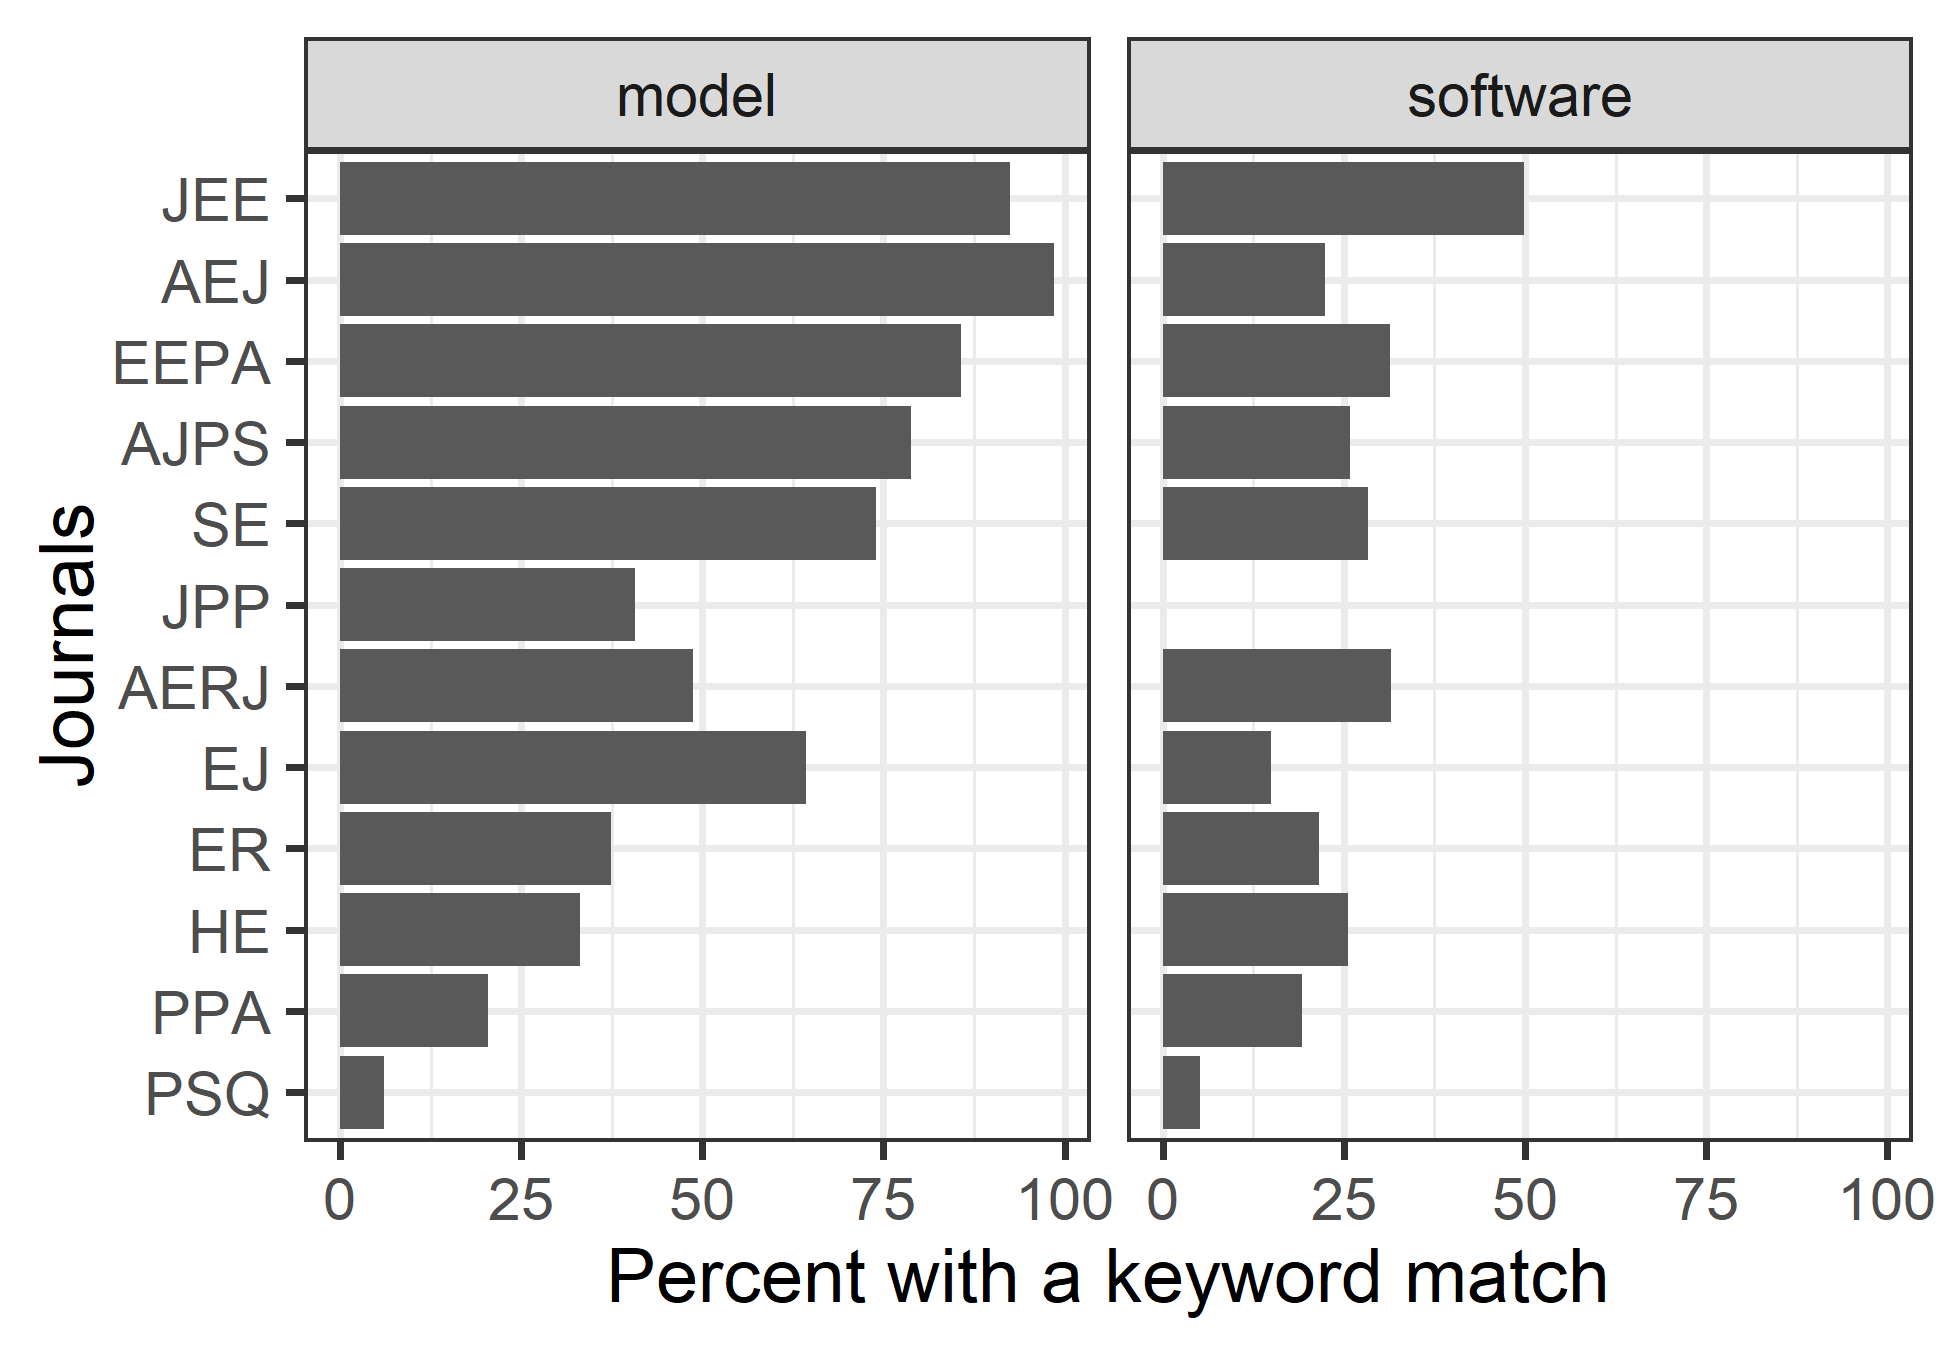
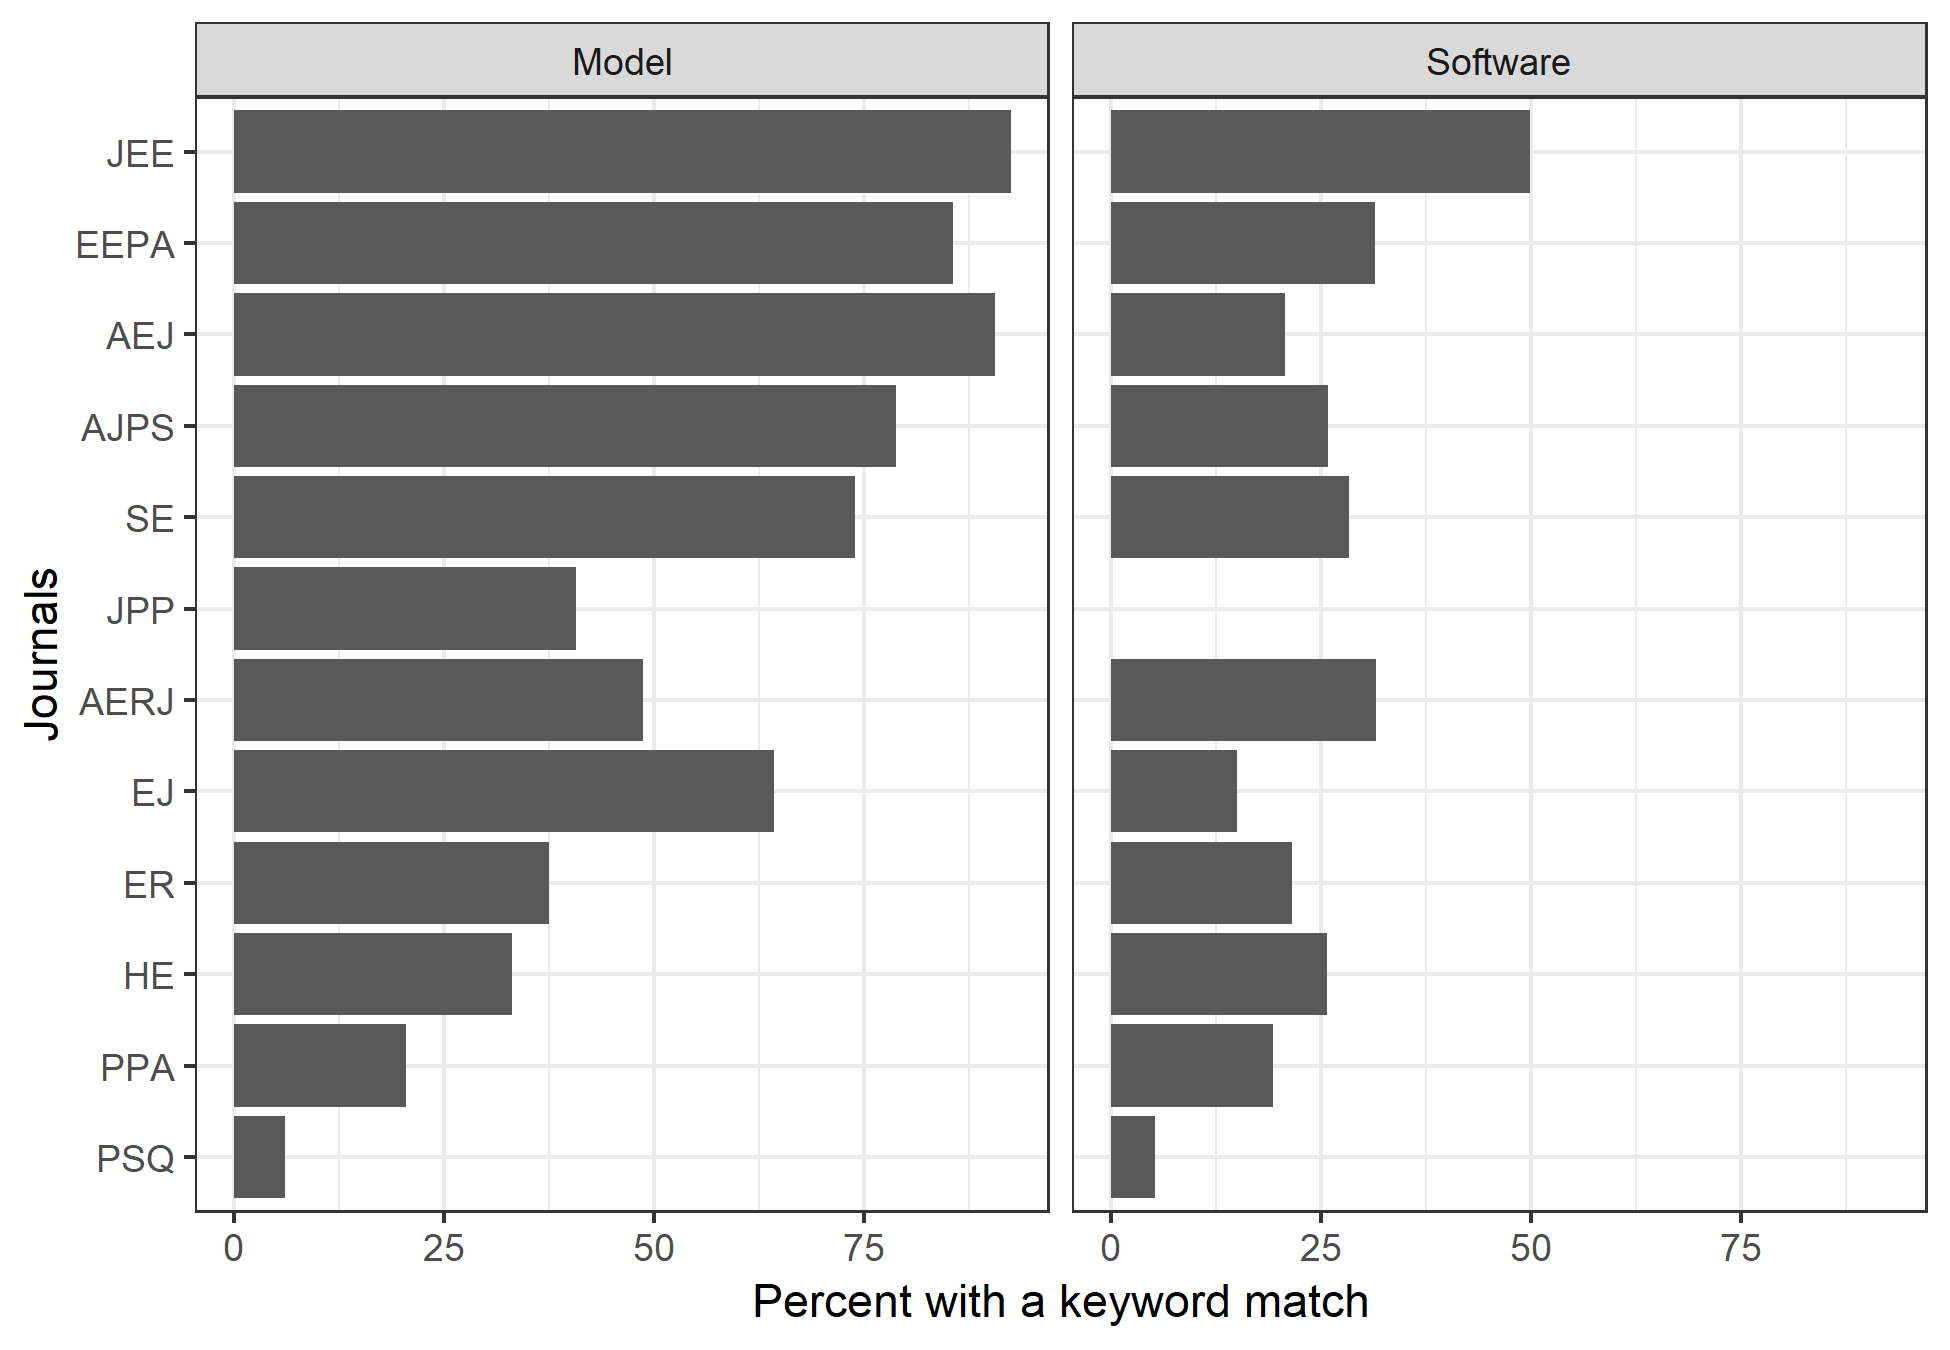
Update of figures

diff --git a/paper/software.tex b/paper/software.tex
@@ -1,5 +1,5 @@
-\documentclass[english,man]{apa6}
-
+\documentclass[english,,man]{apa6}
+\usepackage{lmodern}
 \usepackage{amssymb,amsmath}
 \usepackage{ifxetex,ifluatex}
 \usepackage{fixltx2e} % provides \textsubscript
@@ -9,136 +9,116 @@
 \else % if luatex or xelatex
   \ifxetex
     \usepackage{mathspec}
-    \usepackage{xltxtra,xunicode}
   \else
     \usepackage{fontspec}
   \fi
-  \defaultfontfeatures{Mapping=tex-text,Scale=MatchLowercase}
-  \newcommand{\euro}{€}
+  \defaultfontfeatures{Ligatures=TeX,Scale=MatchLowercase}
 \fi
 % use upquote if available, for straight quotes in verbatim environments
 \IfFileExists{upquote.sty}{\usepackage{upquote}}{}
 % use microtype if available
-\IfFileExists{microtype.sty}{\usepackage{microtype}}{}
+\IfFileExists{microtype.sty}{%
+\usepackage{microtype}
+\UseMicrotypeSet[protrusion]{basicmath} % disable protrusion for tt fonts
+}{}
+\usepackage{hyperref}
+\PassOptionsToPackage{usenames,dvipsnames}{color} % color is loaded by hyperref
+\hypersetup{unicode=true,
+            pdftitle={Evolution of Statistical Software and Quantitative Methods},
+            pdfauthor={Brandon LeBeau~\& Ariel M. Aloe},
+            pdfkeywords={Research Synthesis, Statistical Software, Quantitative Methods},
+            colorlinks=true,
+            linkcolor=blue,
+            citecolor=Blue,
+            urlcolor=Blue,
+            breaklinks=true}
+\urlstyle{same}  % don't use monospace font for urls
+\ifnum 0\ifxetex 1\fi\ifluatex 1\fi=0 % if pdftex
+  \usepackage[shorthands=off,main=english]{babel}
+\else
+  \usepackage{polyglossia}
+  \setmainlanguage[]{english}
+\fi
+\usepackage{longtable,booktabs}
+\usepackage{graphicx,grffile}
+\makeatletter
+\def\maxwidth{\ifdim\Gin@nat@width>\linewidth\linewidth\else\Gin@nat@width\fi}
+\def\maxheight{\ifdim\Gin@nat@height>\textheight\textheight\else\Gin@nat@height\fi}
+\makeatother
+% Scale images if necessary, so that they will not overflow the page
+% margins by default, and it is still possible to overwrite the defaults
+% using explicit options in \includegraphics[width, height, ...]{}
+\setkeys{Gin}{width=\maxwidth,height=\maxheight,keepaspectratio}
+\IfFileExists{parskip.sty}{%
+\usepackage{parskip}
+}{% else
+\setlength{\parindent}{0pt}
+\setlength{\parskip}{6pt plus 2pt minus 1pt}
+}
+\setlength{\emergencystretch}{3em}  % prevent overfull lines
+\providecommand{\tightlist}{%
+  \setlength{\itemsep}{0pt}\setlength{\parskip}{0pt}}
+\setcounter{secnumdepth}{0}
+% Redefines (sub)paragraphs to behave more like sections
+\ifx\paragraph\undefined\else
+\let\oldparagraph\paragraph
+\renewcommand{\paragraph}[1]{\oldparagraph{#1}\mbox{}}
+\fi
+\ifx\subparagraph\undefined\else
+\let\oldsubparagraph\subparagraph
+\renewcommand{\subparagraph}[1]{\oldsubparagraph{#1}\mbox{}}
+\fi
 
-% Table formatting
-\usepackage{longtable, booktabs}
+%%% Use protect on footnotes to avoid problems with footnotes in titles
+\let\rmarkdownfootnote\footnote%
+\def\footnote{\protect\rmarkdownfootnote}
+
+
+  \title{Evolution of Statistical Software and Quantitative Methods}
+    \author{Brandon LeBeau\textsuperscript{1}~\& Ariel M. Aloe\textsuperscript{1}}
+    \date{}
+  
+\shorttitle{Evolution Software and Methods}
+\affiliation{
+\vspace{0.5cm}
+\textsuperscript{1} University of Iowa}
+\keywords{Research Synthesis, Statistical Software, Quantitative Methods}
+\usepackage{csquotes}
+\usepackage{upgreek}
+\captionsetup{font=singlespacing,justification=justified}
+
+\usepackage{longtable}
 \usepackage{lscape}
-% \usepackage[counterclockwise]{rotating}   % Landscape page setup for large tables
-\usepackage{multirow}		% Table styling
-\usepackage{tabularx}		% Control Column width
-\usepackage[flushleft]{threeparttable}	% Allows for three part tables with a specified notes section
-\usepackage{threeparttablex}            % Lets threeparttable work with longtable
+\usepackage{multirow}
+\usepackage{tabularx}
+\usepackage[flushleft]{threeparttable}
+\usepackage{threeparttablex}
 
-% Create new environments so endfloat can handle them
-% \newenvironment{ltable}
-%   {\begin{landscape}\begin{center}\begin{threeparttable}}
-%   {\end{threeparttable}\end{center}\end{landscape}}
+\newenvironment{lltable}{\begin{landscape}\begin{center}\begin{ThreePartTable}}{\end{ThreePartTable}\end{center}\end{landscape}}
 
-\newenvironment{lltable}
-  {\begin{landscape}\begin{center}\begin{ThreePartTable}}
-  {\end{ThreePartTable}\end{center}\end{landscape}}
-
-  \usepackage{ifthen} % Only add declarations when endfloat package is loaded
-  \ifthenelse{\equal{\string man}{\string man}}{%
-   \DeclareDelayedFloatFlavor{ThreePartTable}{table} % Make endfloat play with longtable
-   % \DeclareDelayedFloatFlavor{ltable}{table} % Make endfloat play with lscape
-   \DeclareDelayedFloatFlavor{lltable}{table} % Make endfloat play with lscape & longtable
-  }{}%
-
-
-
-% The following enables adjusting longtable caption width to table width
-% Solution found at http://golatex.de/longtable-mit-caption-so-breit-wie-die-tabelle-t15767.html
 \makeatletter
 \newcommand\LastLTentrywidth{1em}
 \newlength\longtablewidth
 \setlength{\longtablewidth}{1in}
-\newcommand\getlongtablewidth{%
- \begingroup
-  \ifcsname LT@\roman{LT@tables}\endcsname
-  \global\longtablewidth=0pt
-  \renewcommand\LT@entry[2]{\global\advance\longtablewidth by ##2\relax\gdef\LastLTentrywidth{##2}}%
-  \@nameuse{LT@\roman{LT@tables}}%
-  \fi
-\endgroup}
+\newcommand{\getlongtablewidth}{\begingroup \ifcsname LT@\roman{LT@tables}\endcsname \global\longtablewidth=0pt \renewcommand{\LT@entry}[2]{\global\advance\longtablewidth by ##2\relax\gdef\LastLTentrywidth{##2}}\@nameuse{LT@\roman{LT@tables}} \fi \endgroup}
 
 
-  \usepackage{graphicx}
-  \makeatletter
-  \def\maxwidth{\ifdim\Gin@nat@width>\linewidth\linewidth\else\Gin@nat@width\fi}
-  \def\maxheight{\ifdim\Gin@nat@height>\textheight\textheight\else\Gin@nat@height\fi}
-  \makeatother
-  % Scale images if necessary, so that they will not overflow the page
-  % margins by default, and it is still possible to overwrite the defaults
-  % using explicit options in \includegraphics[width, height, ...]{}
-  \setkeys{Gin}{width=\maxwidth,height=\maxheight,keepaspectratio}
-\ifxetex
-  \usepackage[setpagesize=false, % page size defined by xetex
-              unicode=false, % unicode breaks when used with xetex
-              xetex]{hyperref}
-\else
-  \usepackage[unicode=true]{hyperref}
-\fi
-\hypersetup{breaklinks=true,
-            pdfauthor={},
-            pdftitle={Evolution of Statistical Software and Quantitative Methods},
-            colorlinks=true,
-            citecolor=blue,
-            urlcolor=blue,
-            linkcolor=blue,
-            pdfborder={0 0 0}}
-\urlstyle{same}  % don't use monospace font for urls
+\DeclareDelayedFloatFlavor{ThreePartTable}{table}
+\DeclareDelayedFloatFlavor{lltable}{table}
+\DeclareDelayedFloatFlavor*{longtable}{table}
+\makeatletter
+\renewcommand{\efloat@iwrite}[1]{\immediate\expandafter\protected@write\csname efloat@post#1\endcsname{}}
+\makeatother
 
-\setlength{\parindent}{0pt}
-%\setlength{\parskip}{0pt plus 0pt minus 0pt}
+\authornote{
 
-\setlength{\emergencystretch}{3em}  % prevent overfull lines
+Correspondence concerning this article should be addressed to Brandon
+LeBeau, Psychological and Quantitative Foundations, University of Iowa,
+Iowa City, IA 52245. E-mail:
+\href{mailto:brandon-lebeau@uiowa.edu}{\nolinkurl{brandon-lebeau@uiowa.edu}}}
 
-\ifxetex
-  \usepackage{polyglossia}
-  \setmainlanguage{}
-\else
-  \usepackage[english]{babel}
-\fi
-
-% Manuscript styling
-\captionsetup{font=singlespacing,justification=justified}
-\usepackage{csquotes}
-\usepackage{upgreek}
-
-
-
-\usepackage{tikz} % Variable definition to generate author note
-
-% fix for \tightlist problem in pandoc 1.14
-\providecommand{\tightlist}{%
-  \setlength{\itemsep}{0pt}\setlength{\parskip}{0pt}}
-
-% Essential manuscript parts
-  \title{Evolution of Statistical Software and Quantitative Methods}
-
-  \shorttitle{Evolution Software and Methods}
-
-
-  \author{Brandon LeBeau\textsuperscript{1}~\& Ariel M. Aloe\textsuperscript{1}}
-
-  \def\affdep{{"", ""}}%
-  \def\affcity{{"", ""}}%
-
-  \affiliation{
-    \vspace{0.5cm}
-          \textsuperscript{1} University of Iowa  }
-
- % If no author_note is defined give only author information if available
-    \authornote{
-    \newcounter{author}
-                      Correspondence concerning this article should be addressed to Brandon LeBeau, Psychological and Quantitative Foundations, University of Iowa, Iowa
-City, IA 52245. E-mail: \href{mailto:brandon-lebeau@uiowa.edu}{\nolinkurl{brandon-lebeau@uiowa.edu}}
-                          }
-  
-
-  \abstract{Statistical software is the enabling tool of quantitative research
+\abstract{
+Statistical software is the enabling tool of quantitative research
 studies and the availability and use of the software can greatly shape
 which methods are used by researchers. Software that is more accessible
 is likely to have more users and the methods implemented within the
@@ -147,37 +127,27 @@ software, (e.g.~R), has reduced these barriers by making cutting edge
 statistical methods available to researchers through add-on packages.
 This paper aims to explore the evolution of statistical software within
 social science research using a research synthesis to establish the
-state of affairs.}
-  \keywords{Research Synthesis, Statistical Software, Quantitative Methods \\
-
-    
-  }
+state of affairs.
 
 
-
-
+}
 
 \usepackage{amsthm}
-\newtheorem{theorem}{Theorem}
-\newtheorem{lemma}{Lemma}
+\newtheorem{theorem}{Theorem}[section]
+\newtheorem{lemma}{Lemma}[section]
 \theoremstyle{definition}
-\newtheorem{definition}{Definition}
-\newtheorem{corollary}{Corollary}
-\newtheorem{proposition}{Proposition}
+\newtheorem{definition}{Definition}[section]
+\newtheorem{corollary}{Corollary}[section]
+\newtheorem{proposition}{Proposition}[section]
 \theoremstyle{definition}
-\newtheorem{example}{Example}
+\newtheorem{example}{Example}[section]
 \theoremstyle{definition}
-\newtheorem{exercise}{Exercise}
+\newtheorem{exercise}{Exercise}[section]
 \theoremstyle{remark}
 \newtheorem*{remark}{Remark}
 \newtheorem*{solution}{Solution}
 \begin{document}
-
 \maketitle
-
-\setcounter{secnumdepth}{0}
-
-
 
 \hypertarget{objectives}{%
 \section{Objectives}\label{objectives}}
@@ -402,13 +372,13 @@ which language a new algorithm was implemented in.
 
 \begin{table}[!h]
 
-\caption{\label{tab:setup}Number of citations with mention of at least one software by journal}
+\caption{\label{tab:setup}EndNote success rate of obtaining article PDf by journal.}
 \centering
 \begin{tabular}[t]{lrrr}
 \toprule
 Journal & Number of PDFs & Total Possible Articles & Percent PDFs Obtained\\
 \midrule
-AEJ & 334 & 364 & 91.8\\
+AEJ & 363 & 364 & 99.7\\
 AERJ & 444 & 444 & 100.0\\
 AJPS & 922 & 1436 & 64.2\\
 EEPA & 188 & 405 & 46.4\\
@@ -436,7 +406,8 @@ three journals.
 \begin{figure}
 \centering
 \includegraphics{software_files/figure-latex/count-software-1.pdf}
-\caption{\label{fig:count-software}Software count overall}
+\caption{\label{fig:count-software}Number of articles with at least one
+model or software keyword by journals.}
 \end{figure}
 
 When exploring the differences across the three journals in the current
@@ -461,14 +432,27 @@ across the sofware programs with the notable exception of R.
 
 \begin{figure}
 \centering
-\includegraphics{software_files/figure-latex/software-year-1.pdf}
-\caption{\label{fig:software-year}Software counts by year}
+\includegraphics{software_files/figure-latex/software-year-at1-1.pdf}
+\caption{\label{fig:software-year-at1}Primary software counts by year}
 \end{figure}
 
 \begin{figure}
 \centering
-\includegraphics{software_files/figure-latex/model-year-1.pdf}
-\caption{\label{fig:model-year}Software counts by year}
+\includegraphics{software_files/figure-latex/spec-software-year-at1-1.pdf}
+\caption{\label{fig:spec-software-year-at1}Specialty software counts by
+year}
+\end{figure}
+
+\begin{figure}
+\centering
+\includegraphics{software_files/figure-latex/model-year-at1-1.pdf}
+\caption{\label{fig:model-year-at1}Model counts by year}
+\end{figure}
+
+\begin{figure}
+\centering
+\includegraphics{software_files/figure-latex/model-year-latent-1.pdf}
+\caption{\label{fig:model-year-latent}Model counts by year}
 \end{figure}
 
 \hypertarget{interaction-between-software-and-statistical-methods}{%
@@ -615,10 +599,6 @@ Boca Raton, Florida: Chapman; Hall/CRC. Retrieved from
 \leavevmode\hypertarget{ref-knitrmanual}{}%
 Xie, Y. (2017). \emph{Knitr: A general-purpose package for dynamic
 report generation in r}. Retrieved from \url{http://yihui.name/knitr/}
-
-
-
-
 
 
 \end{document}
